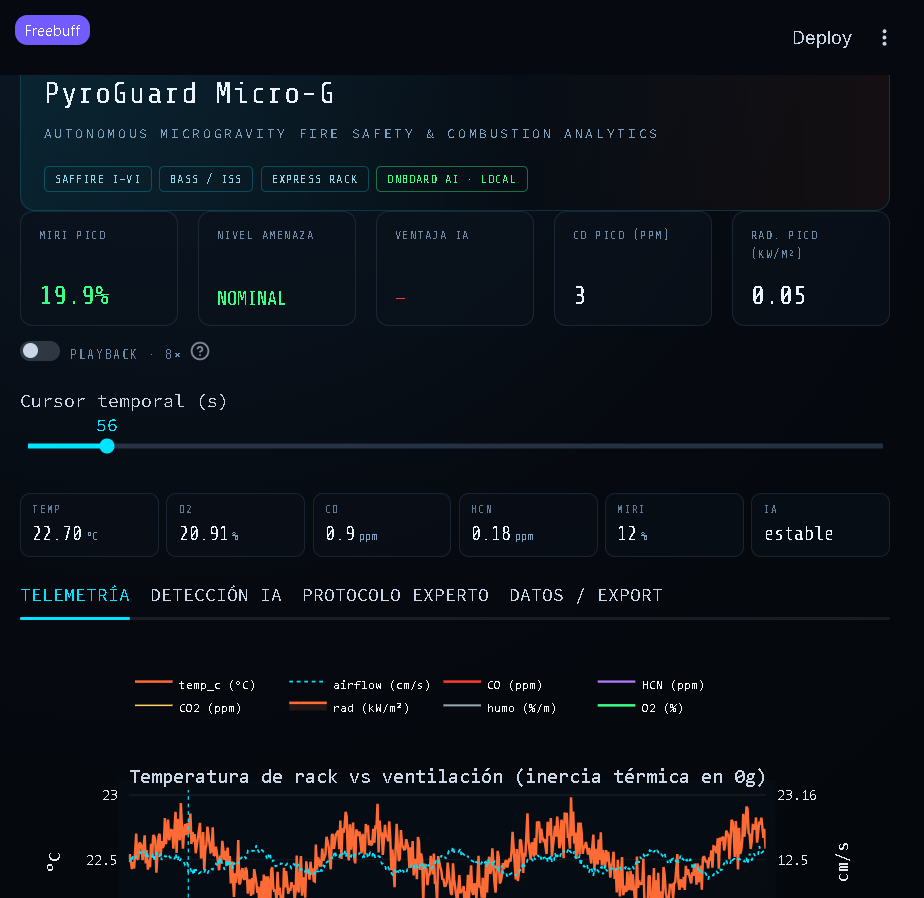
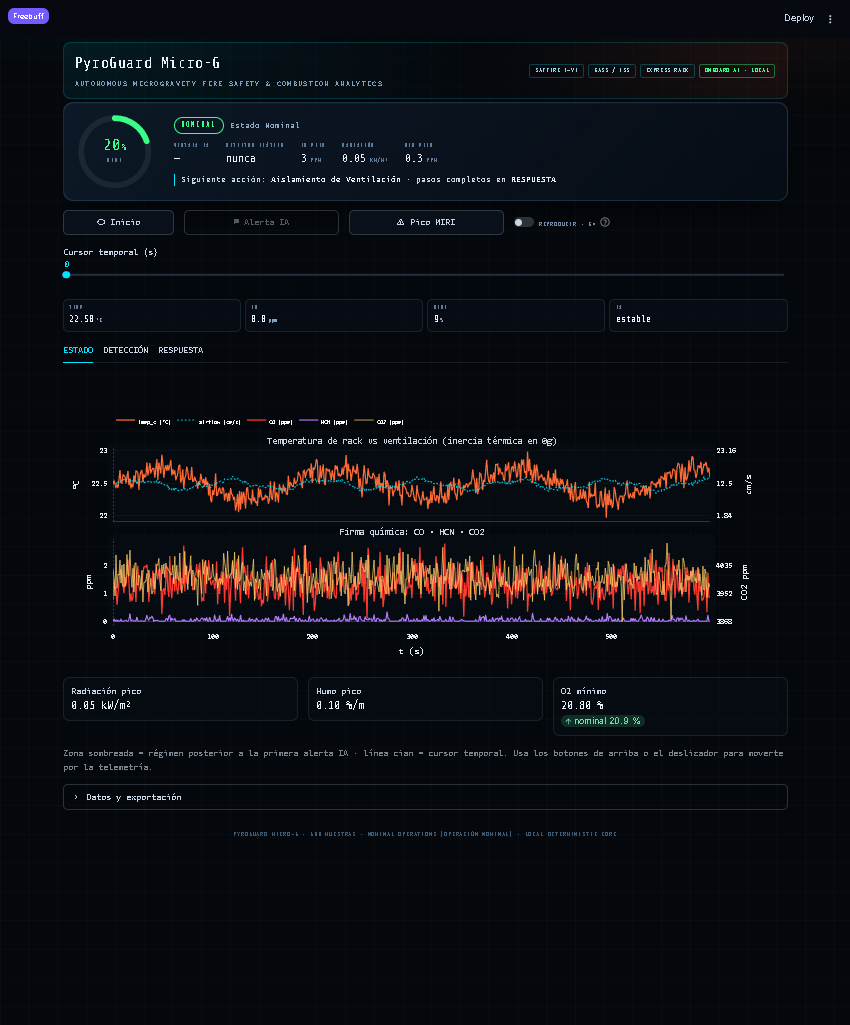
Rediseña la interfaz: veredicto con anillo, acciones rápidas y sistema visual

diff --git a/app.py b/app.py
@@ -11,7 +11,8 @@ import anomaly_engine as ae
 import iss_live
 import physics_simulator as ps
 
-st.set_page_config(layout="wide", page_title="PyroGuard Micro-G | NASA Fire Safety", page_icon="🛰")
+st.set_page_config(layout="wide", page_title="PyroGuard Micro-G | NASA Fire Safety", page_icon="🛰",
+                   initial_sidebar_state="expanded")
 
 RED, ORANGE, CYAN, GREEN, YELLOW, VIOLET = "#FF3B30", "#FF6B35", "#00E5FF", "#39FF88", "#FFD166", "#B47CFF"
 PCFG = {"displaylogo": False,
@@ -21,10 +22,17 @@ PCFG = {"displaylogo": False,
 st.markdown("""
 <style>
 @import url('https://fonts.googleapis.com/css2?family=Share+Tech+Mono&family=Inter:wght@400;600;800&display=swap');
-.stApp { background: radial-gradient(circle at 18% -10%, #0d1b2a 0%, #060a10 55%, #04070b 100%); }
+.stApp { background-color:#04070b;
+  background-image:
+    radial-gradient(900px 420px at 14% -8%, rgba(0,229,255,.10), transparent 62%),
+    radial-gradient(720px 380px at 88% -2%, rgba(255,107,53,.075), transparent 62%),
+    linear-gradient(rgba(255,255,255,.020) 1px, transparent 1px),
+    linear-gradient(90deg, rgba(255,255,255,.020) 1px, transparent 1px);
+  background-size: auto, auto, 46px 46px, 46px 46px;
+  background-attachment: fixed; }
 html, body, [class*="css"] { font-family: 'Inter', sans-serif; color: #C9D6E5; }
 h1, h2, h3, h4 { font-family: 'Share Tech Mono', monospace !important; letter-spacing: .05em; }
-.block-container { padding-top: 1.5rem; padding-bottom: 2rem; }
+.block-container { padding-top: 3.2rem; padding-bottom: 2.4rem; max-width: 1320px; }
 .pg-header { display:flex; justify-content:space-between; align-items:center; gap:18px; flex-wrap:wrap;
   border:1px solid rgba(0,229,255,.18); border-radius:12px; padding:14px 18px;
   background: linear-gradient(90deg, rgba(0,229,255,.07), rgba(6,10,16,.45) 58%, rgba(255,107,53,.06)); }
@@ -55,12 +63,55 @@ div[data-testid="stWidgetLabel"] p { font-family:'Share Tech Mono',monospace; fo
   font-size:13px; color:#C9D6E5; line-height:1.45; }
 .pg-note { font-family:'Share Tech Mono',monospace; font-size:9.5px; letter-spacing:.14em; color:#3E5A73;
   text-align:center; margin-top:16px; }
-.pg-verdict { display:flex; gap:26px; align-items:center; flex-wrap:wrap; margin:2px 0 12px 0;
-  border:1px solid rgba(128,170,210,.18); border-left:3px solid #00E5FF; border-radius:10px;
-  padding:13px 18px; background:rgba(10,18,28,.66); }
-.pg-verdict-m { display:flex; flex-direction:column; gap:3px; min-width:96px; }
-.pg-verdict-v { font-family:'Share Tech Mono',monospace; font-size:23px; color:#EAF4FF; line-height:1.05; }
-.pg-verdict-d { flex:1 1 240px; font-size:12px; color:#8FA9C2; line-height:1.55; }
+/* ---------- veredicto: tarjeta principal con anillo ---------- */
+.pg-hero { display:grid; grid-template-columns:132px 1fr; gap:24px; align-items:center;
+  margin:4px 0 14px; border:1px solid rgba(128,170,210,.18); border-radius:16px;
+  padding:16px 20px; background:linear-gradient(135deg, rgba(13,27,42,.88), rgba(8,14,24,.74));
+  box-shadow:0 24px 50px -34px #000, inset 0 1px 0 rgba(255,255,255,.05); }
+.pg-ring { position:relative; width:124px; height:124px; display:flex; flex-direction:column;
+  align-items:center; justify-content:center; }
+.pg-ring svg { position:absolute; inset:0; transform:rotate(-90deg); }
+.pg-ring-bg { fill:none; stroke:rgba(255,255,255,.07); stroke-width:9; }
+.pg-ring-fg { fill:none; stroke-width:9; stroke-linecap:round; transition:stroke-dashoffset .7s ease; }
+.pg-ring-v { font-family:'Share Tech Mono',monospace; font-size:25px; color:#EAF4FF; line-height:1;
+  display:flex; align-items:baseline; gap:1px; }
+.pg-ring-l { display:block; margin-top:5px; font-family:'Share Tech Mono',monospace; font-size:7.5px;
+  letter-spacing:.18em; color:#5E7A96; text-transform:uppercase; }
+.pg-hero-top { display:flex; align-items:center; gap:10px; flex-wrap:wrap; }
+.pg-pill { font-family:'Share Tech Mono',monospace; font-size:10.5px; letter-spacing:.15em;
+  padding:4px 11px; border-radius:999px; border:1px solid currentColor; }
+.pg-hero-sub { font-size:12.5px; color:#8FA9C2; }
+.pg-hero-kpis { display:flex; gap:26px; flex-wrap:wrap; margin:11px 0 2px; }
+.pg-hero-kpis > div { display:flex; flex-direction:column; gap:2px; }
+.pg-hero-kpis span { font-family:'Share Tech Mono',monospace; font-size:8.5px; letter-spacing:.12em;
+  color:#5E7A96; text-transform:uppercase; }
+.pg-hero-kpis b { font-family:'Share Tech Mono',monospace; font-size:17px; font-weight:400; color:#EAF4FF; }
+.pg-hero-cta { margin-top:10px; font-size:12.5px; color:#C9D6E5; border-left:2px solid #00E5FF;
+  padding-left:10px; line-height:1.5; }
+.pg-hero-cta b { color:#EAF4FF; }
+@keyframes pgpulse { 0%,100%{opacity:1} 50%{opacity:.42} }
+.pg-pulse { animation:pgpulse 1.9s ease-in-out infinite; }
+@media (prefers-reduced-motion: reduce) { .pg-pulse { animation:none; } }
+@media (max-width: 680px) {
+  .pg-hero { grid-template-columns:1fr; justify-items:start; gap:14px; padding:14px 15px; }
+  .pg-ring { width:104px; height:104px; }
+  .pg-ring-v { font-size:22px; }
+  .pg-hero-kpis { gap:16px; }
+  /* columnas apiladas: los botones y métricas no se recortan en móvil */
+  div[data-testid="stHorizontalBlock"] { flex-wrap:wrap !important; }
+  div[data-testid="stHorizontalBlock"] > div[data-testid="stColumn"] { min-width:44% !important; }
+  div.stButton > button { white-space:nowrap; }
+}
+/* ---------- controles ---------- */
+div.stButton > button { border-radius:9px; border:1px solid rgba(128,170,210,.22);
+  background:rgba(12,22,34,.92); color:#DCE8F5; font-family:'Share Tech Mono',monospace;
+  font-size:11px; letter-spacing:.07em; padding:7px 13px; transition:.16s ease; }
+div.stButton > button:hover { border-color:rgba(0,229,255,.55); color:#EAF4FF;
+  background:rgba(0,229,255,.09); transform:translateY(-1px); }
+div.stButton > button:focus-visible { outline:2px solid #00E5FF; outline-offset:2px; }
+div[data-testid="stMetric"] { border:1px solid rgba(128,170,210,.14); border-radius:10px;
+  padding:9px 12px; background:rgba(8,14,24,.55); }
+div[data-testid="stAlert"] { border-radius:10px; }
 div[data-testid="stSidebar"] { background:#070c13; border-right:1px solid rgba(0,229,255,.12); }
 .pg-side-h { font-family:'Share Tech Mono',monospace; font-size:15px; color:#EAF4FF; letter-spacing:.04em; }
 .pg-side-s { color:#6E8AA6; font-size:9.5px; letter-spacing:.14em; text-transform:uppercase; margin-top:4px; }
@@ -424,17 +475,31 @@ ventaja_txt = (f"+{bench['ventaja_seg']} s" if bench["ventaja_seg"] is not None
                else ("CIEGO" if bench["tradicional_seg"] is None and bench["pyroguard_seg"] is not None else "—"))
 
 tone_ventaja = "pg-nom" if (bench["ventaja_seg"] or 0) > 0 else "pg-crit"
-resumen = (f"{proto['tipo_combustion']} · CO pico {proto['co_ppm_pico']:.0f} ppm · "
-           f"radiación {proto['radiative_peak_kwm2']:.2f} kW/m² · HCN {proto['hcn_ppm_pico']:.1f} ppm")
+ring = {"NOMINAL": GREEN, "PRE-IGNICIÓN": YELLOW, "CRÍTICO": RED}[nivel]
+pct = max(0.0, min(100.0, miri_max))
+_c = 2 * 3.141592653589793 * 52
+pulso = " pg-pulse" if nivel == "CRÍTICO" else ""
+first = proto["acciones_inmediatas"][0].split(":")[0].split(". ", 1)[-1]
+trad_txt = (f"{bench['tradicional_seg']} s" if bench["tradicional_seg"] is not None else "nunca")
 st.markdown(
-    f'<div class="pg-verdict">'
-    f'<div class="pg-verdict-m"><span class="pg-kpi-label">MIRI pico</span>'
-    f'<span class="pg-verdict-v {cls}">{miri_max:.1f} %</span></div>'
-    f'<div class="pg-verdict-m"><span class="pg-kpi-label">Nivel</span>'
-    f'<span class="pg-verdict-v {cls}">{nivel}</span></div>'
-    f'<div class="pg-verdict-m"><span class="pg-kpi-label">Ventaja IA</span>'
-    f'<span class="pg-verdict-v {tone_ventaja}">{ventaja_txt}</span></div>'
-    f'<div class="pg-verdict-d">{resumen}</div></div>', unsafe_allow_html=True)
+    f'<div class="pg-hero">'
+    f'<div class="pg-ring">'
+    f'<svg viewBox="0 0 120 120"><circle class="pg-ring-bg" cx="60" cy="60" r="52"/>'
+    f'<circle class="pg-ring-fg" cx="60" cy="60" r="52" stroke="{ring}" '
+    f'stroke-dasharray="{_c:.1f}" stroke-dashoffset="{_c * (1 - pct / 100):.1f}"/></svg>'
+    f'<span class="pg-ring-v" style="color:{ring}">{pct:.0f}<span style="font-size:13px">%</span></span>'
+    f'<span class="pg-ring-l">MIRI</span></div>'
+    f'<div><div class="pg-hero-top">'
+    f'<span class="pg-pill {cls}{pulso}">{nivel}</span>'
+    f'<span class="pg-hero-sub">{proto["tipo_combustion"]}</span></div>'
+    f'<div class="pg-hero-kpis">'
+    f'<div><span>Ventaja IA</span><b class="{tone_ventaja}">{ventaja_txt}</b></div>'
+    f'<div><span>Detector clásico</span><b>{trad_txt}</b></div>'
+    f'<div><span>CO pico</span><b>{proto["co_ppm_pico"]:.0f}<span style="font-size:9px"> ppm</span></b></div>'
+    f'<div><span>Radiación</span><b>{proto["radiative_peak_kwm2"]:.2f}<span style="font-size:9px"> kW/m²</span></b></div>'
+    f'<div><span>HCN pico</span><b>{proto["hcn_ppm_pico"]:.1f}<span style="font-size:9px"> ppm</span></b></div>'
+    f'</div><div class="pg-hero-cta">Siguiente acción: <b>{first}</b> · pasos completos en '
+    f'<b>RESPUESTA</b></div></div></div>', unsafe_allow_html=True)
 
 last = len(df) - 1
 t_last = float(df["timestamp_sec"].iloc[-1])  # eje X real: puede no ser 0..n con CSV irregulares
@@ -450,9 +515,16 @@ st.session_state.t_cursor = min(int(st.session_state.t_cursor), last)
 if "play" not in st.session_state:
     st.session_state.play = False
 
-pb, _ = st.columns([2, 6])
-with pb:
-    st.toggle("Playback · 8×", key="play", help="Reproduce la telemetría en tiempo acelerado")
+q1, q2, q3, q4 = st.columns([1.1, 1.5, 1.5, 2.6])
+if q1.button("⟲ Inicio", width="stretch", help="Llevar el cursor al segundo 0"):
+    st.session_state.t_cursor = 0
+if q2.button("⚑ Alerta IA", width="stretch", disabled=bench["pyroguard_seg"] is None,
+             help="Saltar al segundo en que el modelo avisó por primera vez"):
+    st.session_state.t_cursor = int(df.index[df.timestamp_sec == bench["pyroguard_seg"]][0])
+if q3.button("⚠ Pico MIRI", width="stretch", help="Saltar al instante de MIRI máximo"):
+    st.session_state.t_cursor = int(df.miri_score.idxmax())
+with q4:
+    st.toggle("Reproducir · 8×", key="play", help="Reproduce la telemetría en tiempo acelerado")
 
 
 def _style(fig, t_now, h=360, rows=3):
@@ -528,7 +600,8 @@ def live_panel():
         c[0].metric("Radiación pico", f"{df.radiative_heat_flux_kwm2.max():.2f} kW/m²")
         c[1].metric("Humo pico", f"{df.smoke_obscuration_pct_m.max():.2f} %/m")
         c[2].metric("O2 mínimo", f"{df.o2_pct.min():.2f} %", f"nominal {ps.ATM[atmosfera]['o2']:.1f} %")
-        st.caption("Zona sombreada = régimen posterior a la primera alerta IA · línea punteada cian = cursor temporal.")
+        st.caption("Zona sombreada = régimen posterior a la primera alerta IA · línea cian = cursor temporal. "
+                   "Usa los botones de arriba o el deslizador para moverte por la telemetría.")
 
     with tab2:
         g1, g2 = st.columns([2, 1])
